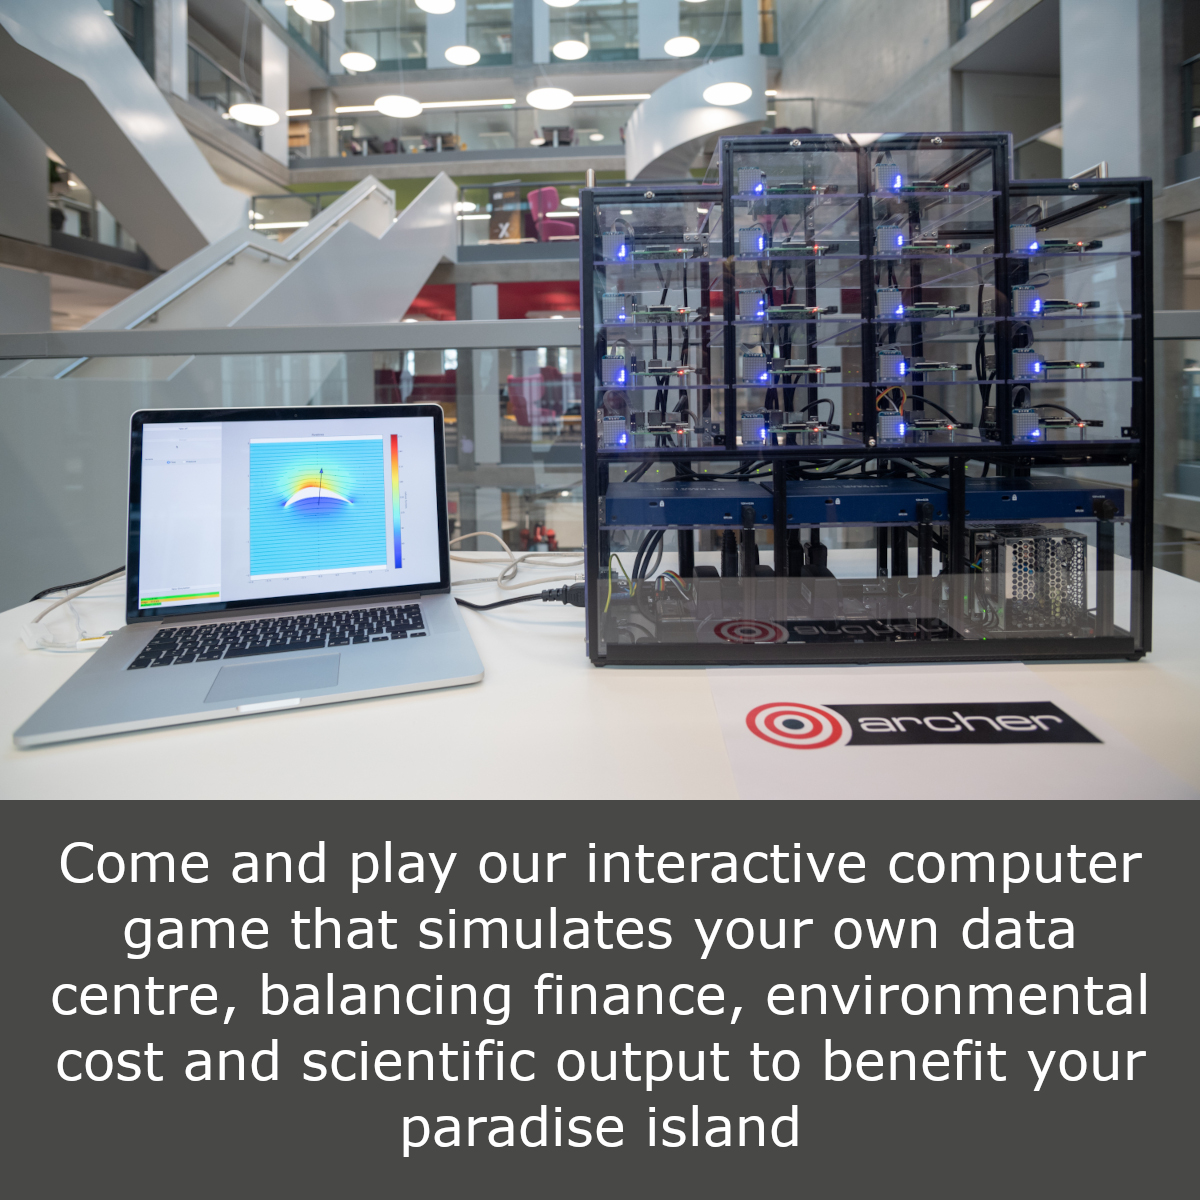
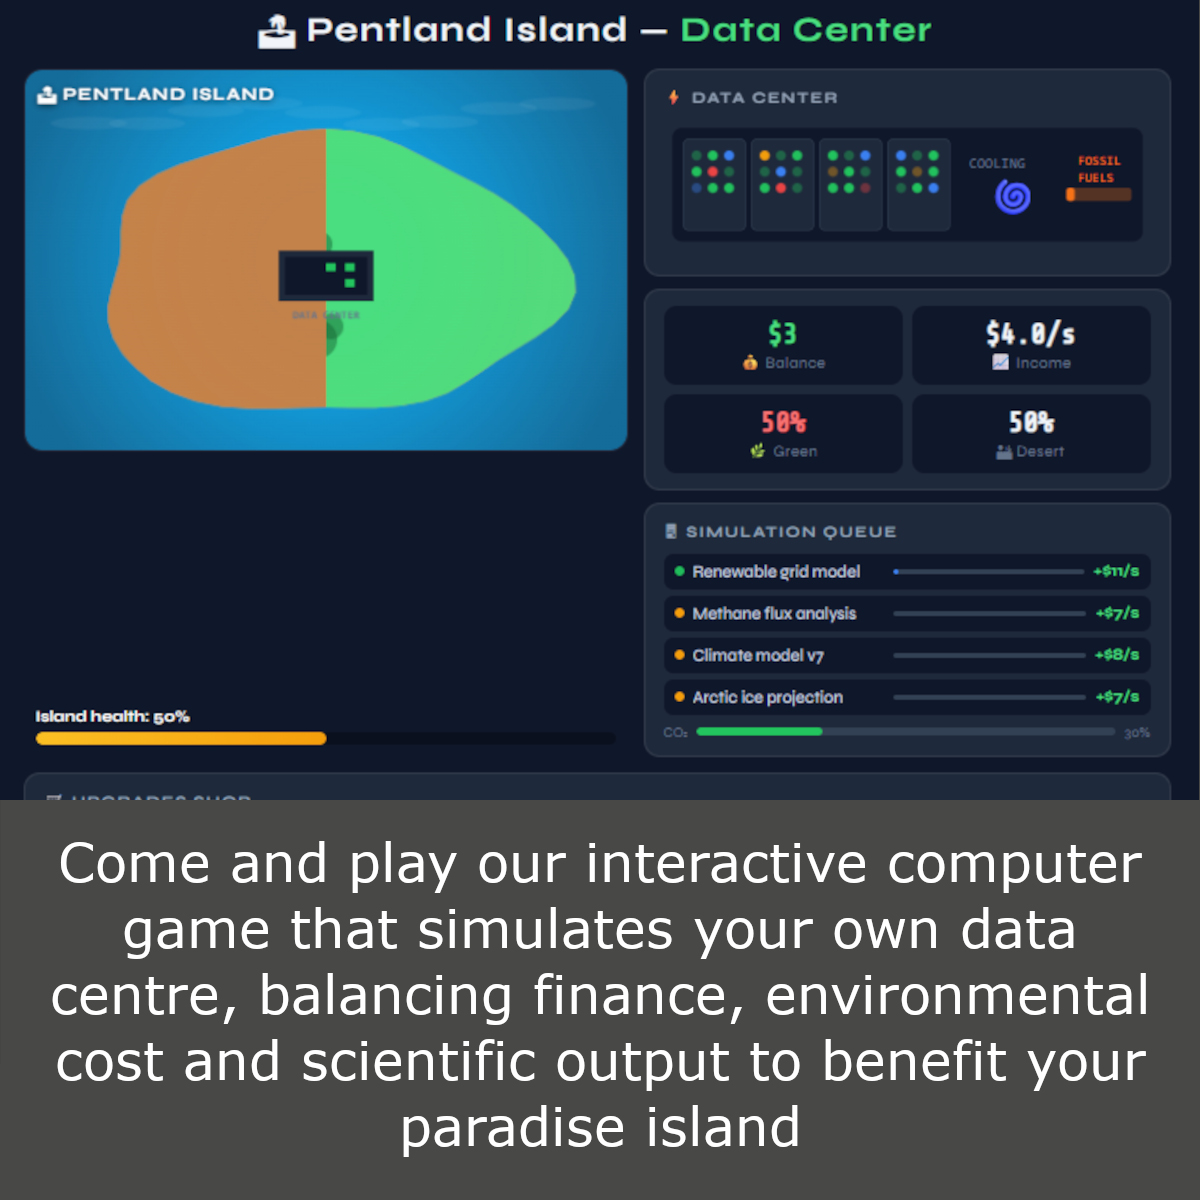
further updates

diff --git a/content/english/vr.md b/content/english/vr.md
@@ -6,20 +6,13 @@ image: "images/author.jpg"
 layout: event
 ---
 
-
-
-
 <p align=center>
 <img src="../images/virtual-tour.jpg" width="60%" >
 </p>
 
-
 <h3 align=center>
 Explore our virtual reality science museum showcasing different scientific outputs from supercomputers.
 </h3>
-
-
-
 
 ARCHER2, the UK's National Supercomputing Service, stands as a world-class advanced computing resource for UK researchers. Powered by the HPE Cray EX supercomputing system, ARCHER2 boasts an estimated peak performance of 28 Pflop/s. With 5,848 nodes, each housing dual AMD EPYCTM 7742 64-core processors clocked at 2.25GHz, the machine contains a total of 750,080 cores. Running ARCHER2 requires specialist staff and facilities, along with a massive power supply. The system is capable of over eleven times the scientific throughput of its predecessor, ARCHER.
 
@@ -27,16 +20,11 @@ Virtual tours offer a unique opportunity to explore locations remotely, making t
 
 <iframe width="100%" height="640" frameborder="0" allow="xr-spatial-tracking; gyroscope; accelerometer" allowfullscreen scrolling="no" src="https://kuula.co/share/collection/7c4Jv?logo=0&info=0&fs=1&vr=1&sd=1&initload=0&thumbs=1"></iframe>
 
-
-
 <p align=center><a href="https://kuula.co/share/collection/7c4Jv?logo=0&info=0&fs=1&vr=1&sd=1&initload=0&thumbs=1" >Visit the tour on the Kuula site </a></p>
 
 Captured using a Sony A7iv camera, our virtual tour offers high-resolution imagery stitched together into panoramas. Powered by Kuula, the interactive tour allows seamless navigation via desktop, mobile phones, and VR headsets. With VR functionality, users can enjoy a realistic and immersive experience, enhancing engagement and retention of information. We will continue enhancing the tour with additional features such as information bars and audio guides. Stay tuned for an upcoming virtual tour of the ARCHER2 power plant, adding a second room to the experience. Discovering ARCHER2 and its surroundings has never been easier.
 
-
-
 <p align=center>
-
 <a href="https://kuula.co/share/collection/7c4Jv?logo=0&info=0&fs=1&vr=1&sd=1&initload=0&thumbs=1">
 <img src="./../images/virtual-tour-2.jpg" width="60%">
 </a></p>
@@ -45,13 +33,14 @@ Captured using a Sony A7iv camera, our virtual tour offers high-resolution image
 <i>Photograph thanks to Luca Parisi EPCC</i>
 </p>
 
+<p align="center">
 <a href="../duck"><img src="../images/ducks-button.jpg" width="30%" align="center"></a>
 <a href="../datacentre"><img src="../images/datacentre-button.jpg" width="30%" align="center"></a>
 <a href="../outputs"><img src="../images/outputs-button.jpg" width="30%" align="center"></a>
-
-<p align="center">
-<a href="../royalsociety-test"><img src="../images/ARCHER2 cabinets.jpg" width="50%" align="center"></a>
 </p>
 
+<p align="center">
+<a href="../royalsociety-test"><img src="../images/home-button.jpg" width="50%" align="center"></a>
+</p>
 
 

diff --git a/content/english/datacentre.md b/content/english/datacentre.md
@@ -6,15 +6,8 @@ image: "images/author.jpg"
 layout: event
 ---
 
-
-
-
-
-
-
-
 <p align=center>
-<img src="../images/wee-archie-2.jpg" width="50%" align="center">
+<img src="../images/datacentre.jpg" width="50%" align="center">
 </p>
 
 Supercomputers and the data centres they live in have an impact on the environment, and it is important for these centres to work to reduce this impact. Choices on cooling methods, data centre location, energy sources, and more, all affect the environmental impact of running these systems and data centres.
@@ -25,13 +18,14 @@ Designed to be played on any web-enabled device, we will have tablets available 
  
 A link to an online version of the game will be available here soon.
 
+<p align="center">
 <a href="../vr"><img src="../images/vr-button.jpg" width="30%" align="center"></a>
 <a href="../duck"><img src="../images/ducks-button.jpg" width="30%" align="center"></a>
 <a href="../outputs"><img src="../images/outputs-button.jpg" width="30%" align="center"></a>
-
+</p>
 
 <p align="center">
-<a href="../royalsociety-test"><img src="../images/ARCHER2 cabinets.jpg" width="50%" align="center"></a>
+<a href="../royalsociety-test"><img src="../images/home-button.jpg" width="50%" align="center"></a>
 </p>
 
 

diff --git a/content/english/outputs.md b/content/english/outputs.md
@@ -6,17 +6,9 @@ image: "images/author.jpg"
 layout: event
 ---
 
-
-
-
-
-
-
 <p align=center>
 <img src="../images/turbines.jpg" width="50%" align="center">
 </p>
-
-
 
 ARCHER2 is the latest iteration of the UK National Supercomputing Service, and enables scientists to simulate the world around us in ways that are often impossible (or far too expensive) to study with physical experiments. ARCHER2 is regularly used to study topics such as how jet engines can be made more efficient, how we can design better nuclear reactors, how new drugs might work, how viruses spread, and the effects of climate change to name just a small few.
  
@@ -26,12 +18,12 @@ At our stand we will have a virtual reality science museum with a range of VR vi
 <iframe title="Video" width="560" height="315" src="https://www.youtube.com/embed/TSUKUQhUXj8 " frameborder="0" allow="accelerometer; autoplay; encrypted-media; gyroscope; picture-in-picture" allowfullscreen></iframe>
 </p>
 
-
+<p align="center">
 <a href="../vr"><img src="../images/vr-button.jpg" width="30%" align="center"></a>
 <a href="../duck"><img src="../images/ducks-button.jpg" width="30%" align="center"></a>
 <a href="../datacentre"><img src="../images/datacentre-button.jpg" width="30%" align="center"></a>
-
+</p>
 
 <p align="center">
-<a href="../royalsociety-test"><img src="../images/ARCHER2 cabinets.jpg" width="50%" align="center"></a>
+<a href="../royalsociety-test"><img src="../images/home-button.jpg" width="50%" align="center"></a>
 </p>

diff --git a/content/english/royalsociety-test.md b/content/english/royalsociety-test.md
@@ -9,19 +9,21 @@ layout: event
 
 
 <p align="center">
-<img src="../images/ARCHER2 cabinets.jpg" width="50%" align="center">
+<img src="../images/ARCHER2 cabinets.jpg" width="70%" align="center">
 </p>
 
 
 <h4 align="center"> Visit us at the Royal Society Summer Science Exhibition at the Royal Society in London, 30th June to the 3rd July 2026 and find out all about Supercomputers. What’s good, what’s bad and what’s beautiful.</h4>
 
 Supercomputers are vast computers that allow us to run large, complex and cutting-edge simulations that can’t be done elsewhere. Our exhibit will showcase the good, the bad and the beautiful about supercomputers.
-	- Supercomputers are composed of very large numbers of computational cores, all working together to solve these challenges.
-	- Supercomputers are important as they help address the challenges we face around health, security and the planet. 
-	- Data centres and supercomputers have an impact on the environment and it is important for these centres to work to reduce this impact.
+- &bullet; Supercomputers are composed of very large numbers of computational cores, all working together to solve these challenges.
+- &bullet; Supercomputers are important as they help address the challenges we face around health, security and the planet. 
+- &bullet; Data centres and supercomputers have an impact on the environment and it is important for these centres to work to reduce this impact.
 
+
+<p align="center">
 <a href="../vr"><img src="../images/vr-button.jpg" width="48%" align="center"></a>
 <a href="../duck"><img src="../images/ducks-button.jpg" width="48%" align="center"></a>
 <a href="../datacentre"><img src="../images/datacentre-button.jpg" width="48%" align="center"></a>
 <a href="../outputs"><img src="../images/outputs-button.jpg" width="48%" align="center"></a>
-
+</p>

diff --git a/content/english/duck.md b/content/english/duck.md
@@ -6,14 +6,9 @@ image: "images/author.jpg"
 layout: event
 ---
 
-
-
-
 <p align=center>
 <img src="../images/hook-duck-2.jpg" width="50%" align="center">
 </p>
-
-
 
 Supercomputers are composed of very large numbers of computational cores, all working together to solve these challenges. Our hook-a-duck activity is designed demonstrate what a supercomputer is and how they work in parallel - you have 30 seconds to hook as many ducks as you can!
  
@@ -23,11 +18,12 @@ Catching a single duck is tricky, but achievable. Catching lots of ducks could t
 <img src="../images/hook-duck-1.jpg" width="50%" align="center">
 </p>
 
-
+<p align="center">
 <a href="../vr"><img src="../images/vr-button.jpg" width="30%" align="center"></a>
 <a href="../datacentre"><img src="../images/datacentre-button.jpg" width="30%" align="center"></a>
 <a href="../outputs"><img src="../images/outputs-button.jpg" width="30%" align="center"></a>
+</p>
 
 <p align="center">
-<a href="../royalsociety-test"><img src="../images/ARCHER2 cabinets.jpg" width="50%" align="center"></a>
+<a href="../royalsociety-test"><img src="../images/home-button.jpg" width="50%" align="center"></a>
 </p>